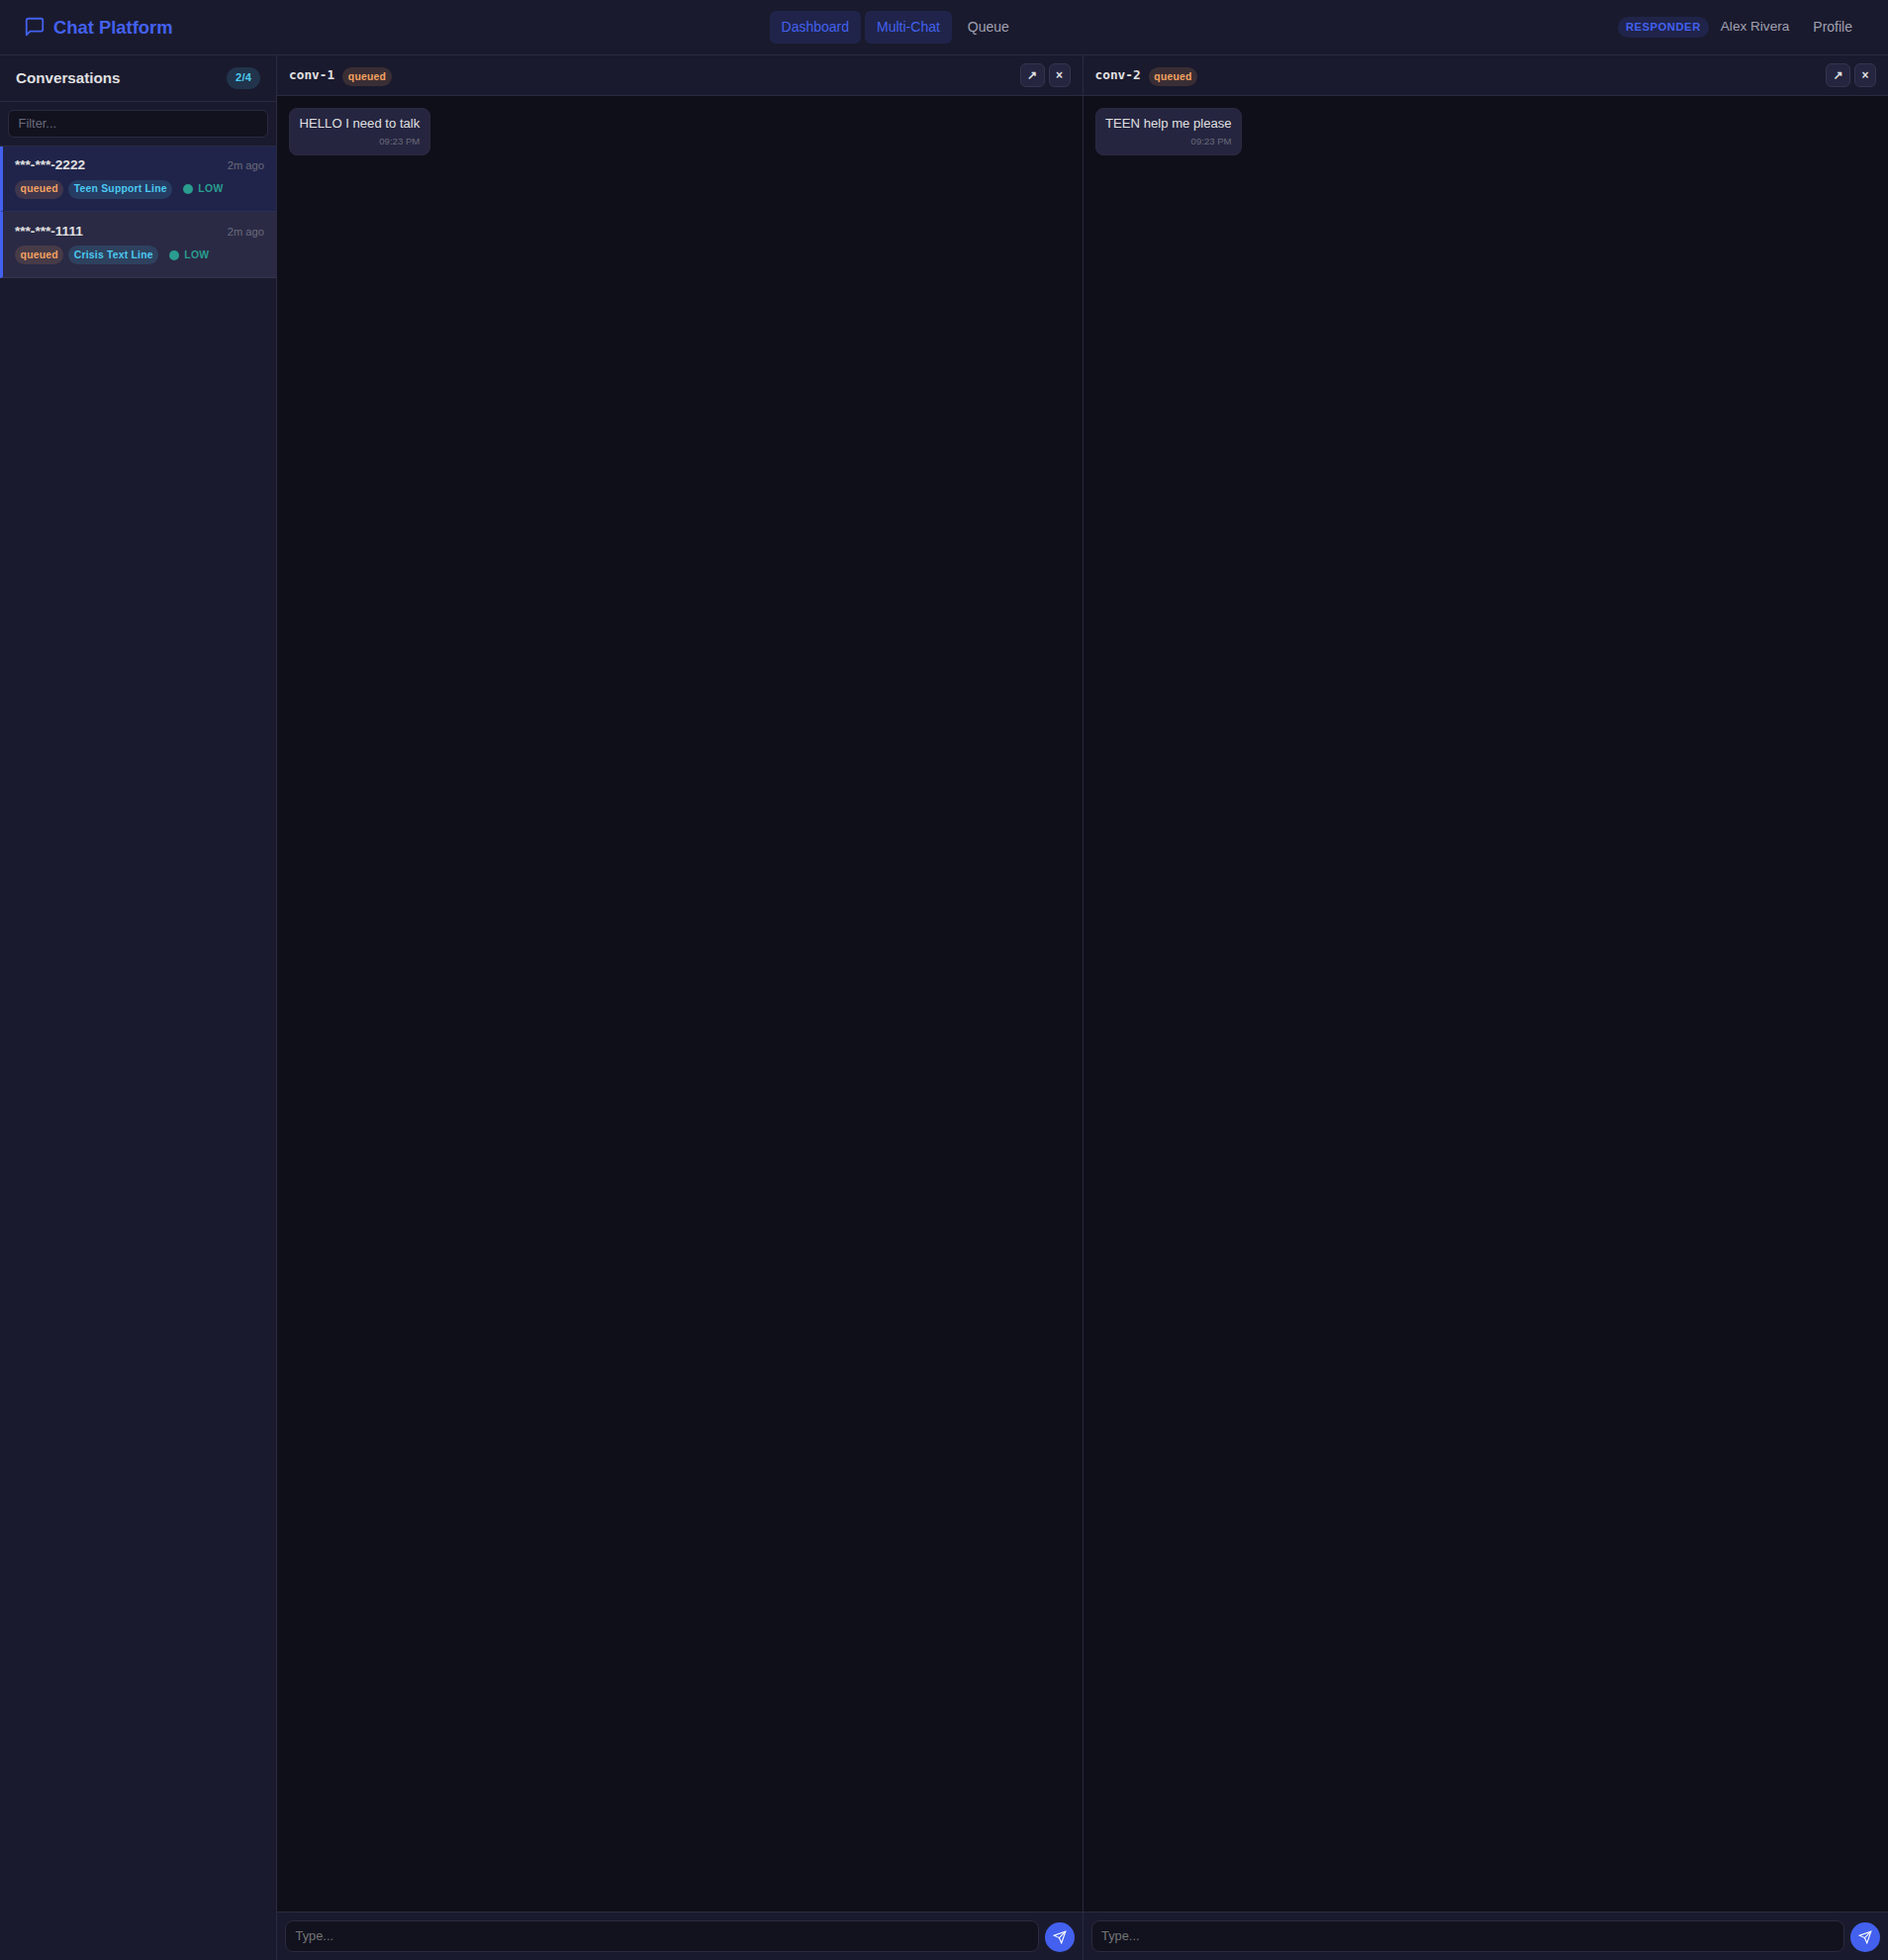
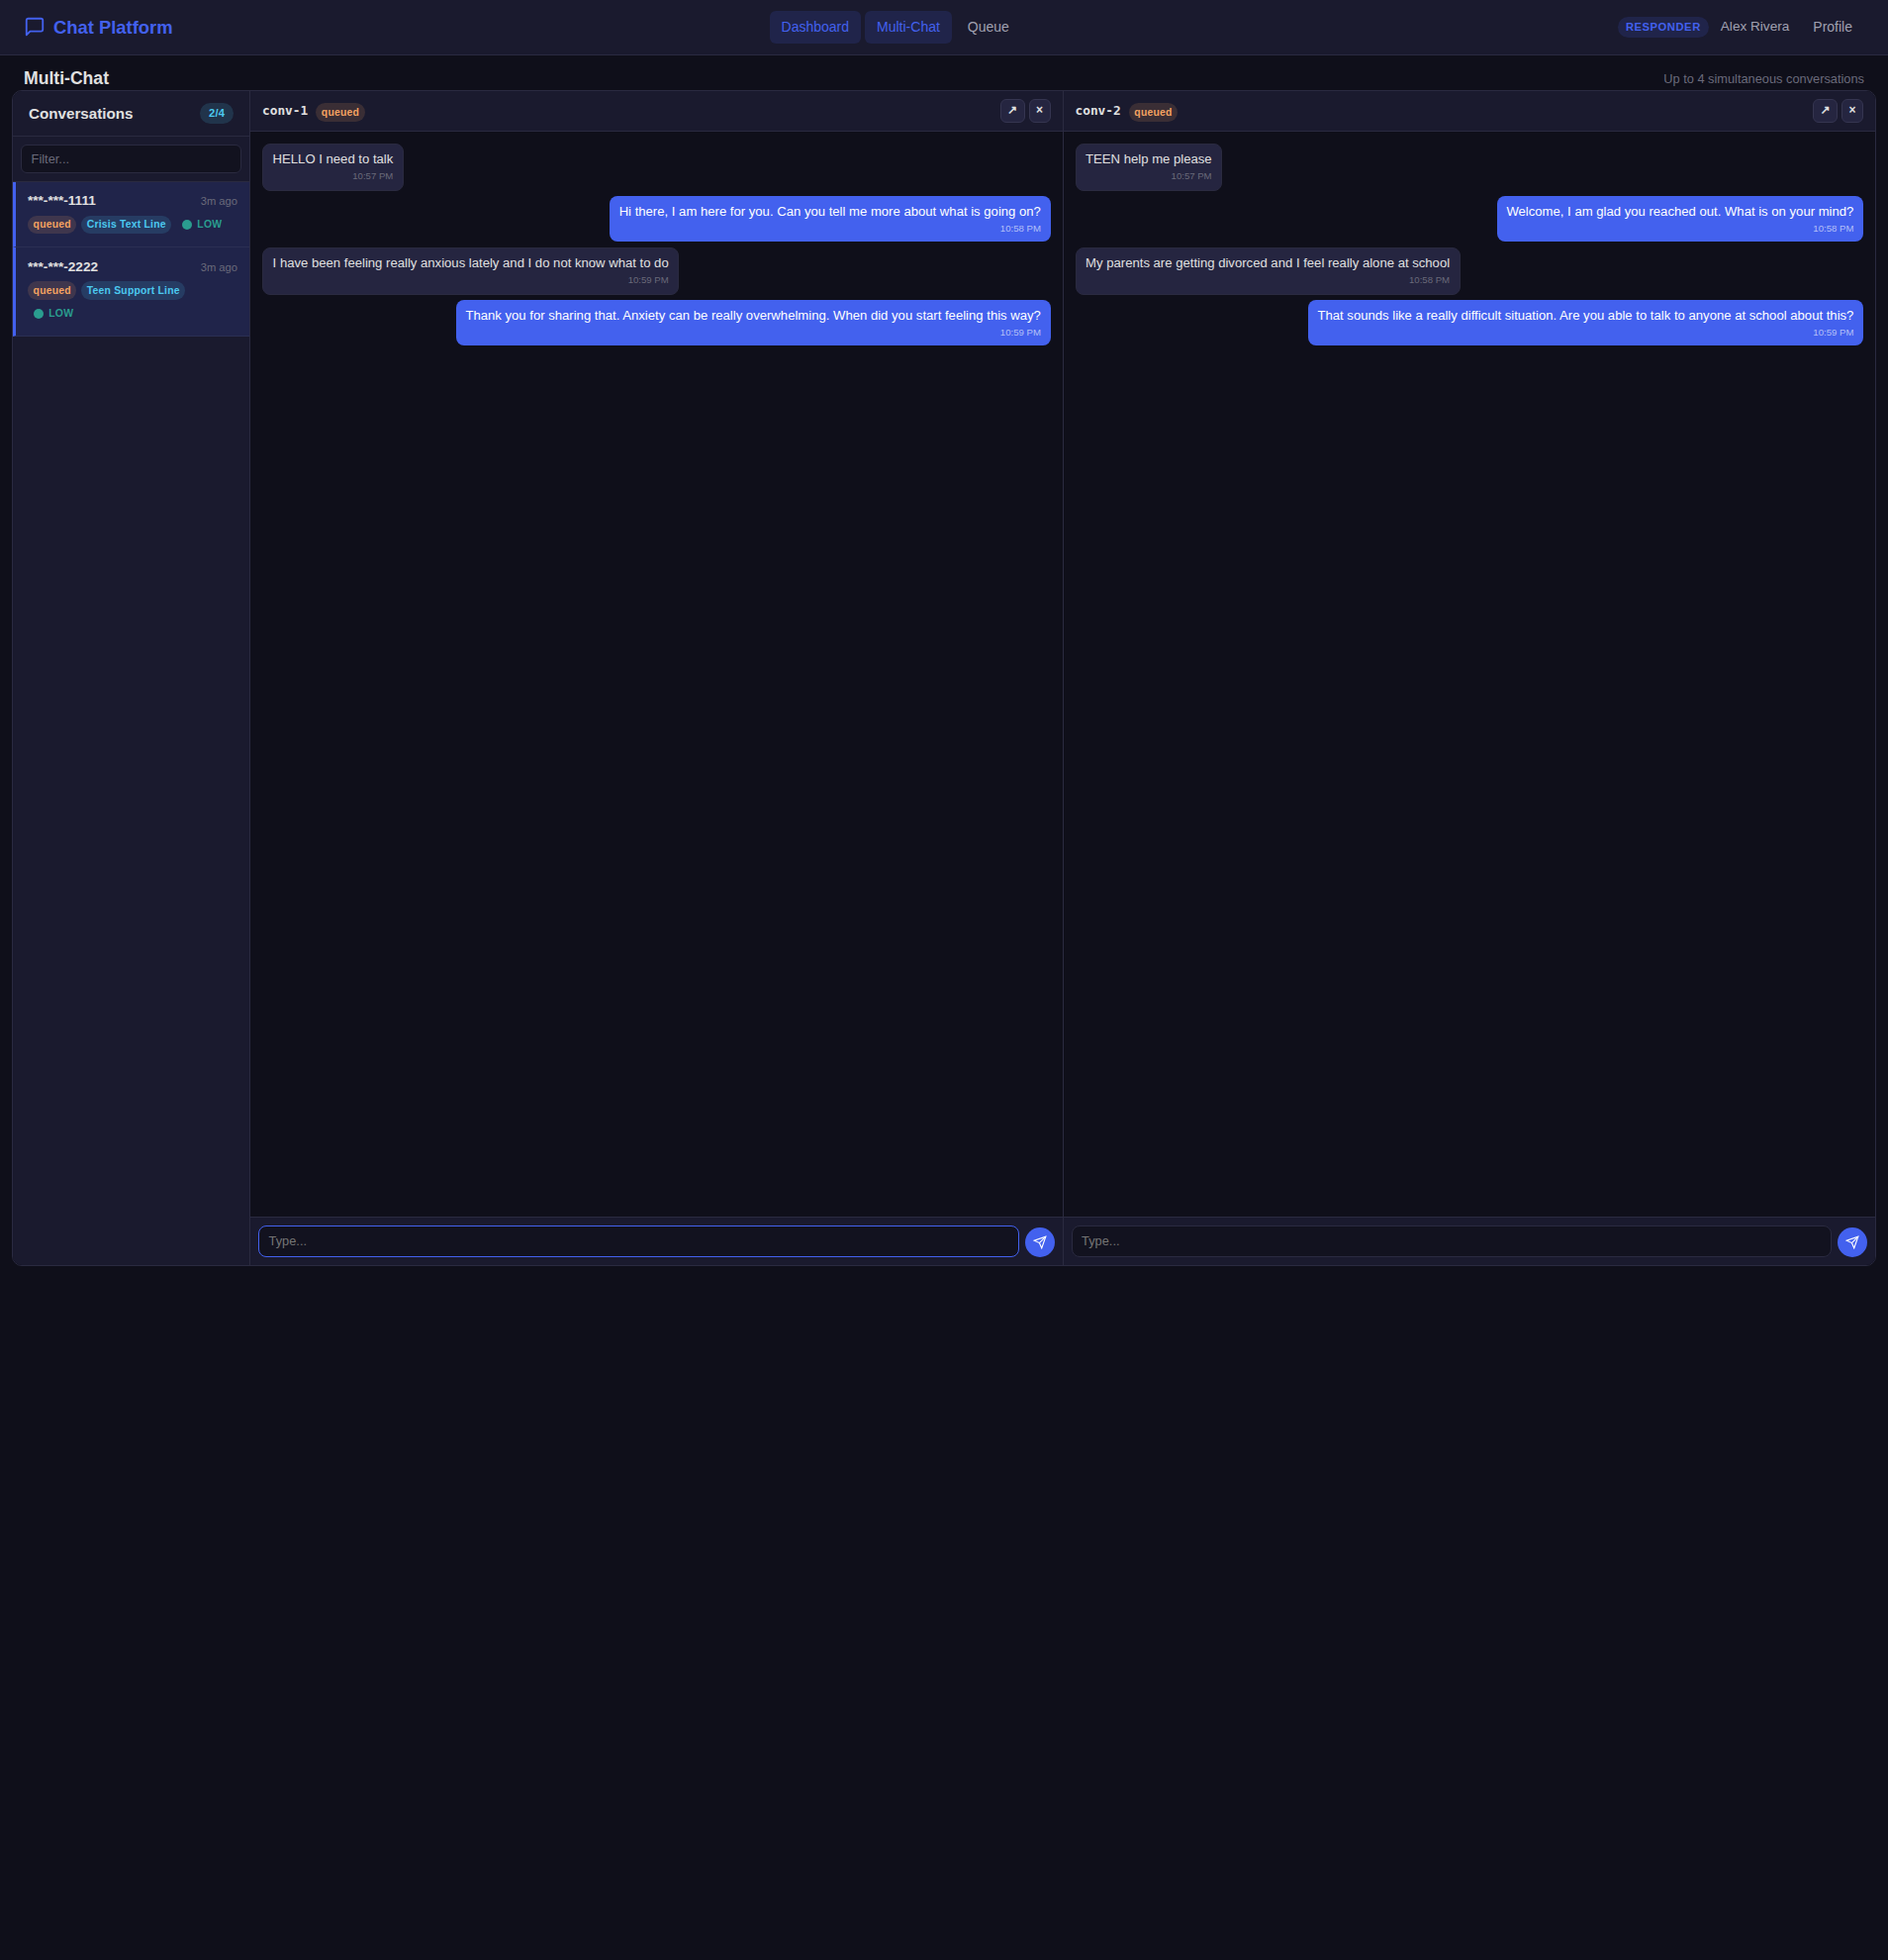
Improve multi-chat view: constrained height, visible nav, populated messages
- Constrain chat panels to ~60vh with min/max bounds, leaving room for
  future tools (R2R chat, S2R chat, resources panel)
- Keep dashboard nav bar always visible during multi-chat
- Fix message loading to reliably display conversation history in panels
- Updated screenshot showing conversations with actual messages

diff --git a/example/chat-platform/spa/js/multichat.js b/example/chat-platform/spa/js/multichat.js
@@ -26,6 +26,10 @@ function renderMultiChat() {
   const user = api.getUser();
 
   return `
+    <div class="multi-chat-page-header">
+      <h2>Multi-Chat</h2>
+      <span class="text-muted" style="font-size:0.8rem">Up to ${MAX_PANELS} simultaneous conversations</span>
+    </div>
     <div class="multi-chat-layout">
       <div class="multi-chat-list" id="multi-chat-list">
         <div class="multi-chat-list-header">
@@ -44,7 +48,6 @@ function renderMultiChat() {
           <div class="empty-state">
             <h3>Multi-Chat View</h3>
             <p class="text-muted mt-1">Click conversations on the left to open them as panels.</p>
-            <p class="text-muted" style="font-size:0.8rem">Up to ${MAX_PANELS} simultaneous chats.</p>
           </div>
         </div>
       </div>
@@ -264,14 +267,19 @@ async function loadPanelMessages(convId) {
     const container = document.getElementById(`mc-msgs-${convId}`);
     if (!container) return;
 
-    if (messages.length === 0 && panelData.lastMessageCount === 0) {
-      if (container.querySelector('.spinner-container')) {
+    // On first load (spinner visible), always render even if empty
+    const isFirstLoad = container.querySelector('.spinner-container') || container.querySelector('.mc-no-msgs');
+
+    if (messages.length === 0) {
+      if (isFirstLoad || panelData.lastMessageCount === 0) {
         container.innerHTML = '<div class="mc-no-msgs">No messages yet</div>';
+        panelData.lastMessageCount = 0;
       }
       return;
     }
 
-    if (messages.length === panelData.lastMessageCount) return;
+    // Skip re-render if count unchanged (unless first load)
+    if (!isFirstLoad && messages.length === panelData.lastMessageCount) return;
     panelData.lastMessageCount = messages.length;
 
     const wasAtBottom = container.scrollHeight - container.scrollTop - container.clientHeight < 50;
@@ -290,7 +298,7 @@ async function loadPanelMessages(convId) {
       `;
     }).join('');
 
-    if (wasAtBottom || panelData.lastMessageCount <= messages.length) {
+    if (wasAtBottom) {
       container.scrollTop = container.scrollHeight;
     }
   } catch (err) {

diff --git a/example/chat-platform/spa/styles.css b/example/chat-platform/spa/styles.css
@@ -1494,13 +1494,18 @@ input[type="datetime-local"]:focus {
 /* ========== Multi-Chat Layout ========== */
 .multi-chat-layout {
   display: flex;
-  height: calc(100vh - var(--nav-height));
+  height: 60vh;
+  max-height: calc(100vh - 220px);
+  min-height: 300px;
   overflow: hidden;
+  margin: 0 0.75rem;
+  border: 1px solid var(--border);
+  border-radius: var(--radius-lg);
 }
 
 .multi-chat-list {
-  width: 280px;
-  min-width: 280px;
+  width: 240px;
+  min-width: 240px;
   background: var(--bg-secondary);
   border-right: 1px solid var(--border);
   display: flex;
@@ -1761,9 +1766,25 @@ input[type="datetime-local"]:focus {
   cursor: not-allowed;
 }
 
+/* Multi-Chat Page Header */
+.multi-chat-page-header {
+  display: flex;
+  justify-content: space-between;
+  align-items: center;
+  padding: 0.75rem 0.75rem 0;
+  margin: 0 0.75rem;
+}
+
+.multi-chat-page-header h2 {
+  font-size: 1.1rem;
+  font-weight: 600;
+}
+
 @media (max-width: 768px) {
   .multi-chat-layout {
     flex-direction: column;
+    height: auto;
+    max-height: calc(100vh - 200px);
   }
   .multi-chat-list {
     width: 100%;
